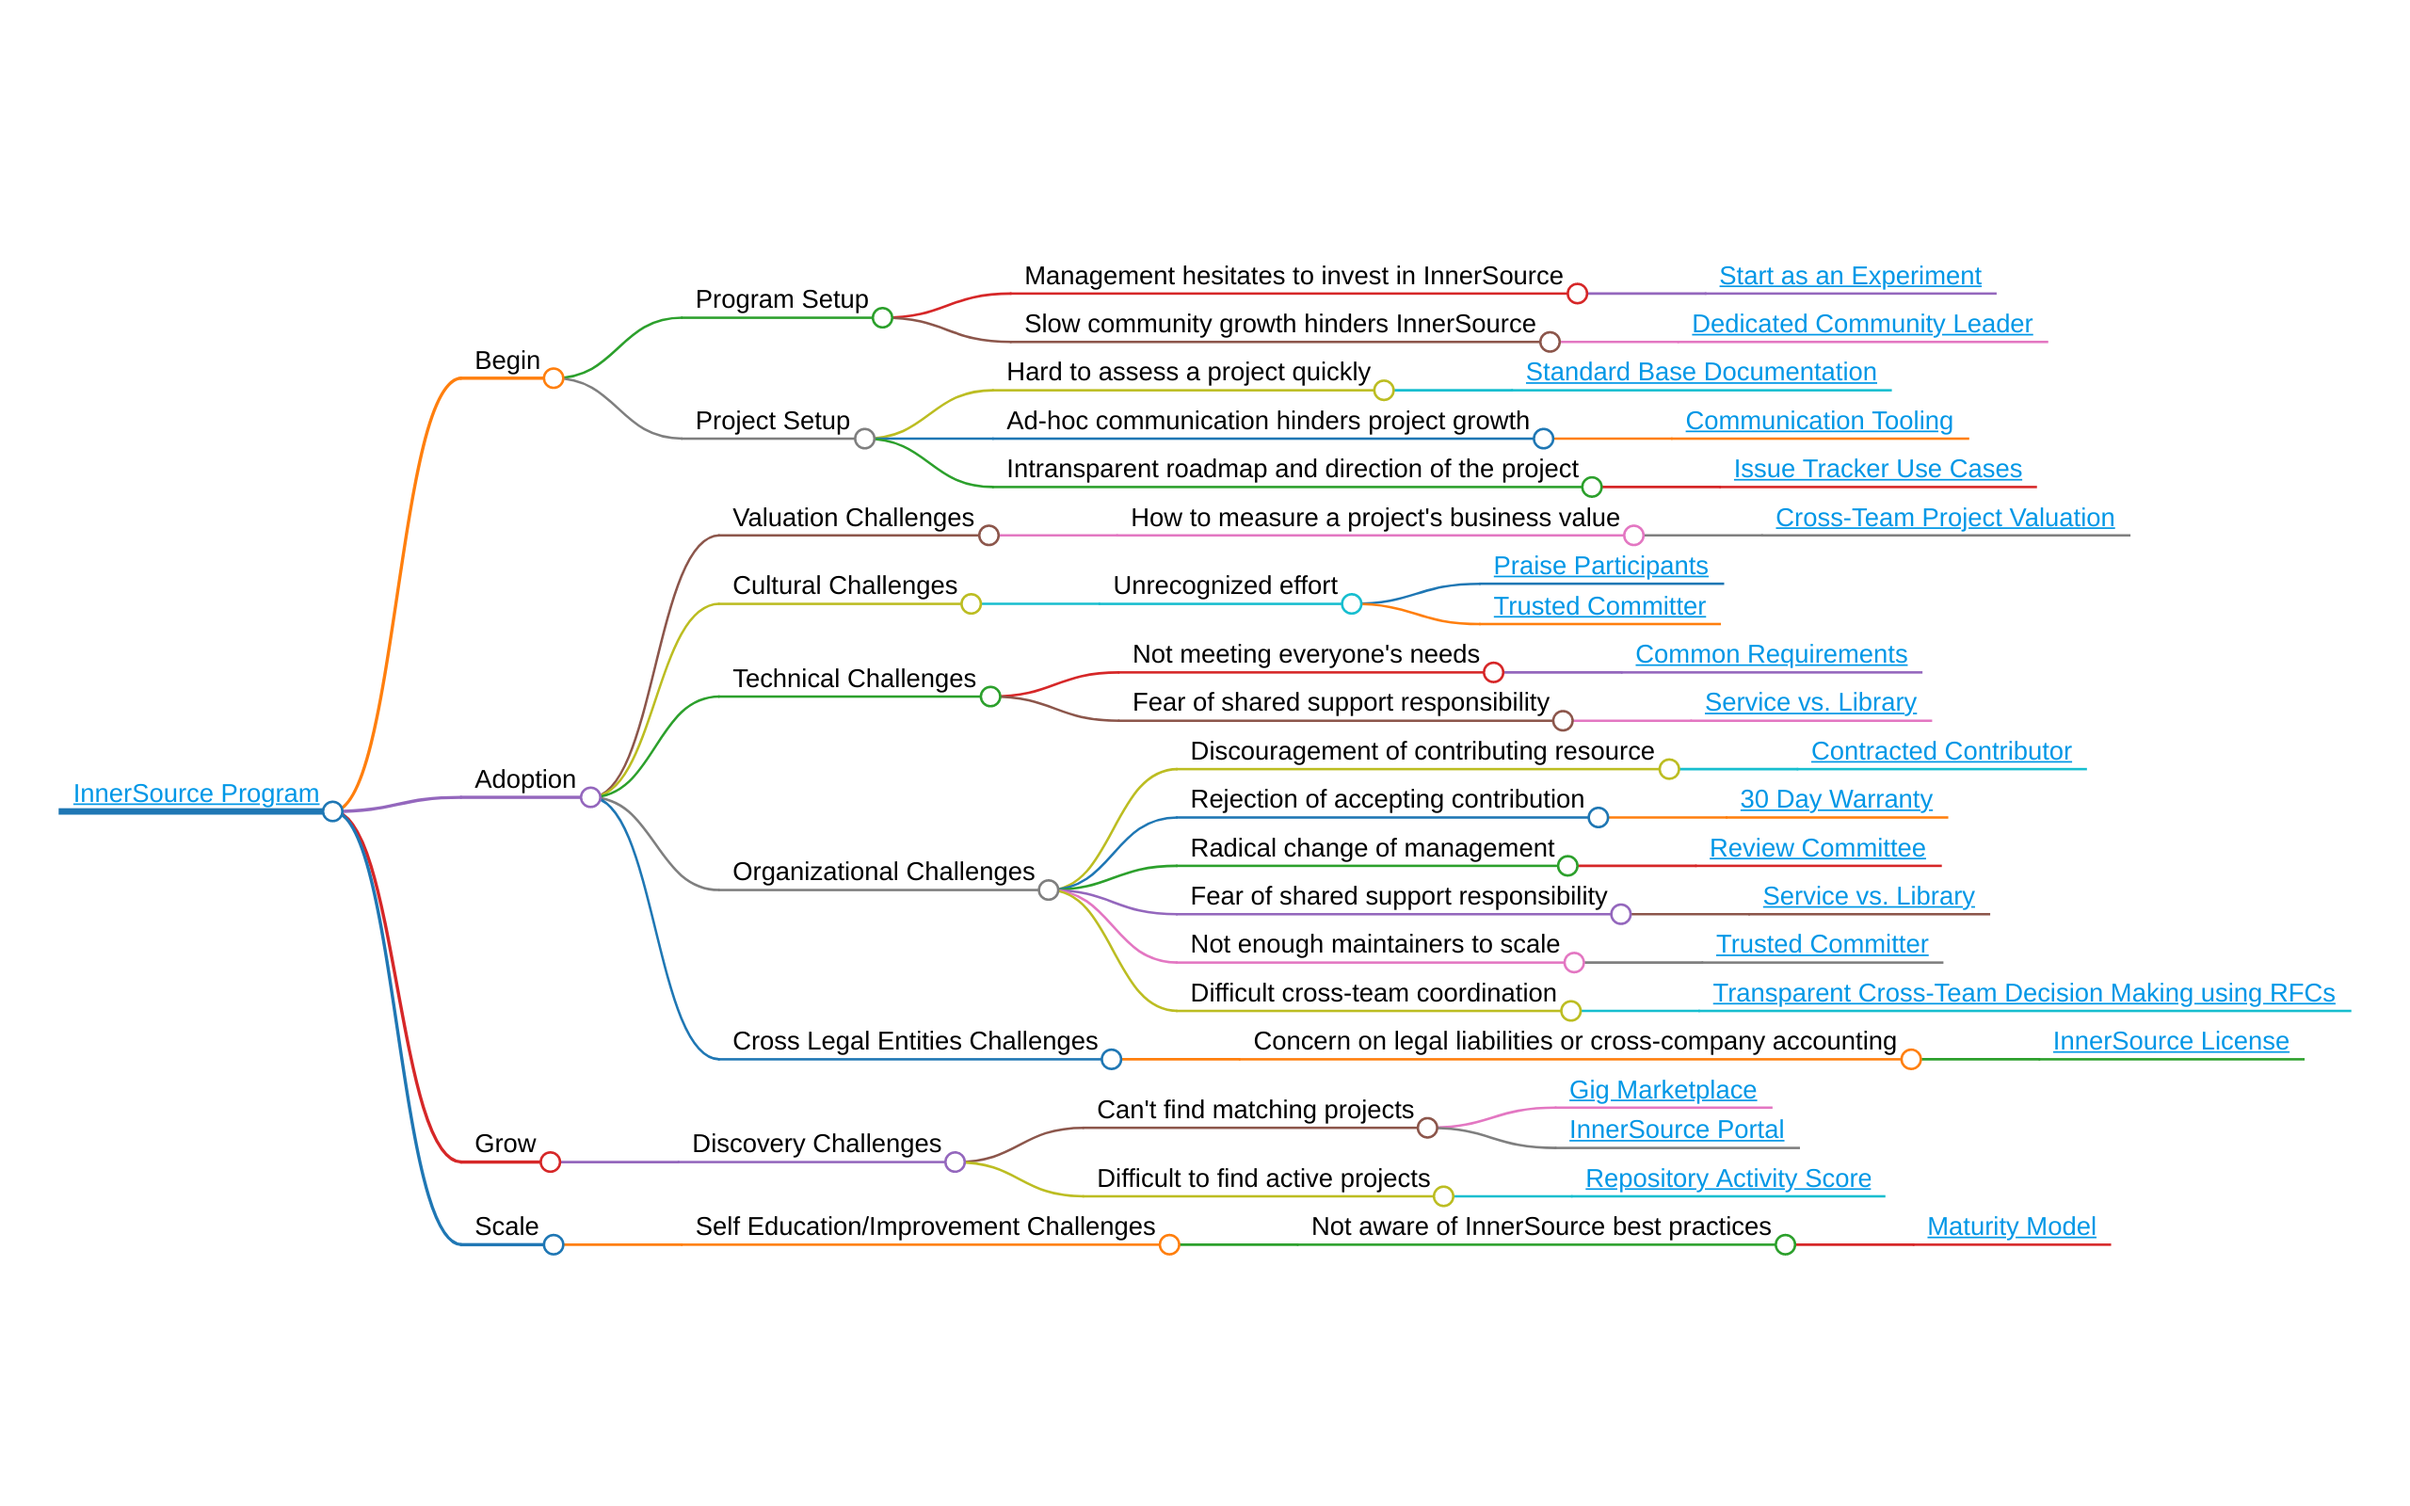
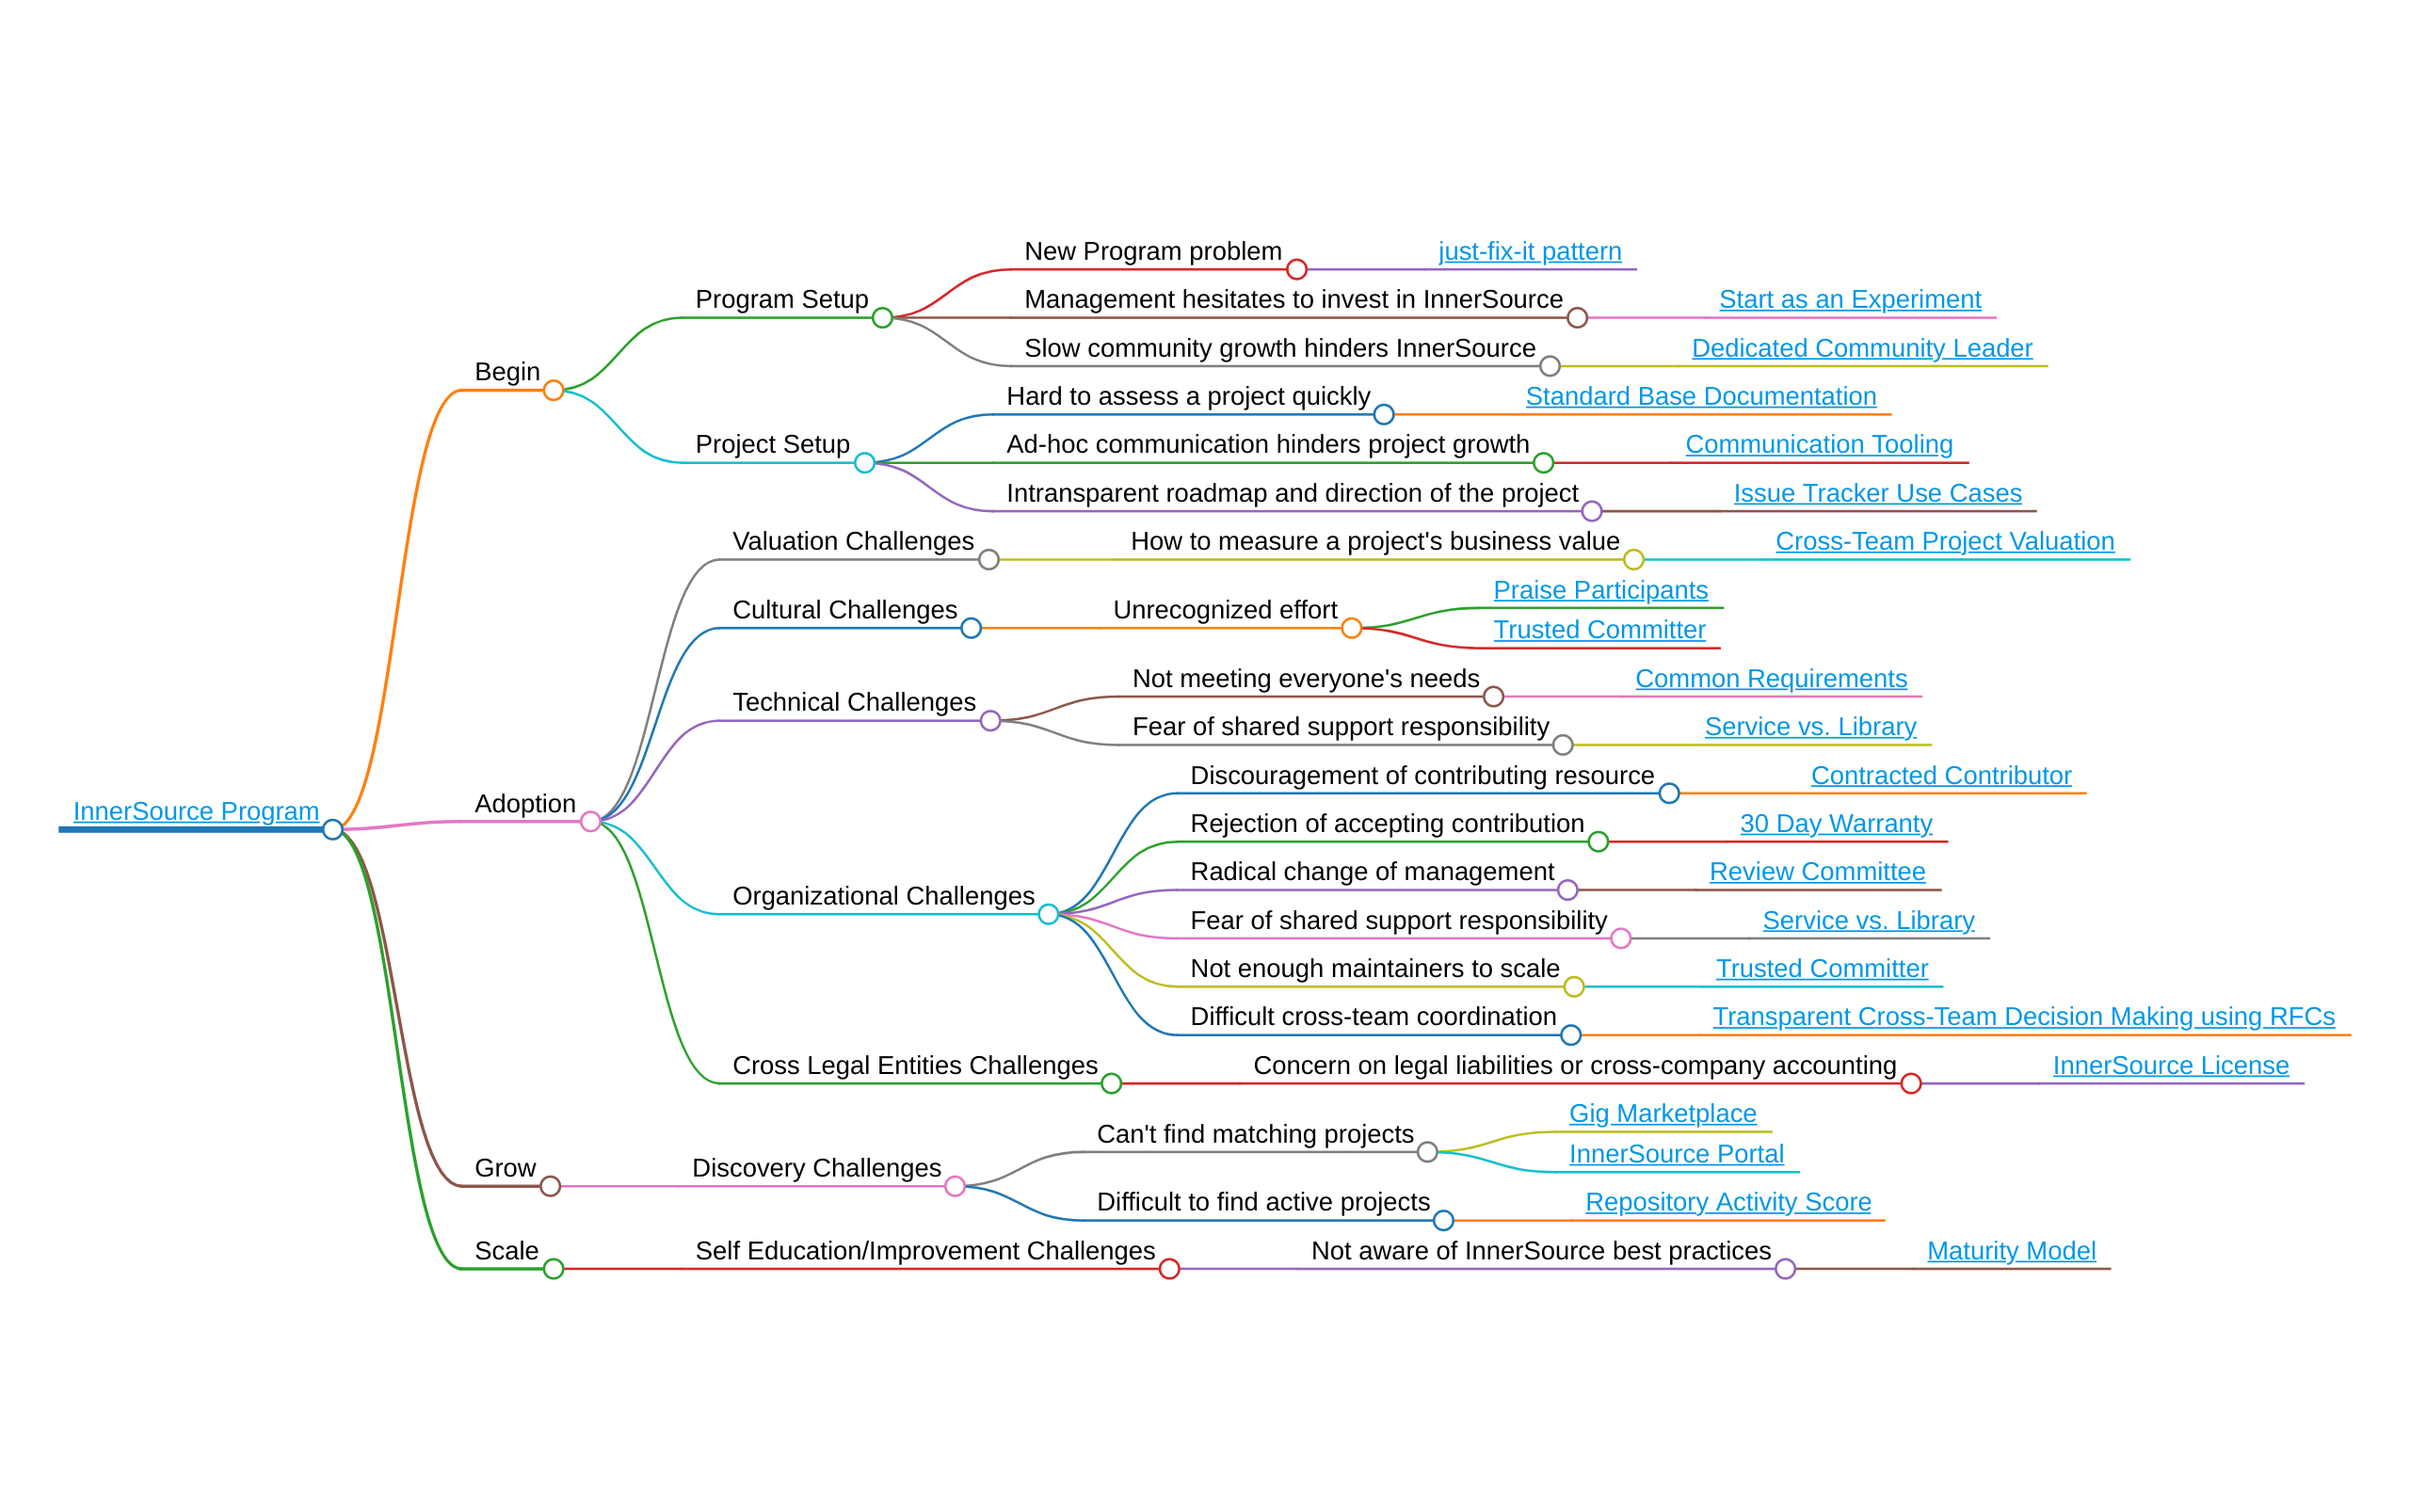
Re-creating markmap and screenshot

Changed region(s): [[0.0312, 0.1562, 0.9688, 0.8438], [0.1875, 0.2188, 0.25, 0.2812]]

diff --git a/pattern-categorization/innersource-program-mind-map.html b/pattern-categorization/innersource-program-mind-map.html
@@ -25,6 +25,6 @@
           Markmap
         } = getMarkmap();
         window.mm = Markmap.create('svg#mindmap', getOptions == null ? void 0 : getOptions(), data);
-      })(() => window.markmap,null,{"t":"heading","d":1,"p":{"lines":[0,1]},"v":"<a href=\"https://patterns.innersourcecommons.org/toc\">InnerSource Program</a>","c":[{"t":"heading","d":2,"p":{"lines":[2,3]},"v":"Begin","c":[{"t":"heading","d":3,"p":{"lines":[4,5]},"v":"Program Setup","c":[{"t":"heading","d":4,"p":{"lines":[6,7]},"v":"Management hesitates to invest in InnerSource","c":[{"t":"heading","d":5,"p":{"lines":[8,9]},"v":"<a href=\"https://patterns.innersourcecommons.org/p/start-as-experiment\">Start as an Experiment</a>"}]},{"t":"heading","d":4,"p":{"lines":[10,11]},"v":"Slow community growth hinders InnerSource","c":[{"t":"heading","d":5,"p":{"lines":[12,13]},"v":"<a href=\"https://patterns.innersourcecommons.org/p/dedicated-community-leader\">Dedicated Community Leader</a>"}]}]},{"t":"heading","d":3,"p":{"lines":[14,15]},"v":"Project Setup","c":[{"t":"heading","d":4,"p":{"lines":[16,17]},"v":"Hard to assess a project quickly","c":[{"t":"heading","d":5,"p":{"lines":[18,19]},"v":"<a href=\"https://patterns.innersourcecommons.org/p/base-documentation\">Standard Base Documentation</a>"}]},{"t":"heading","d":4,"p":{"lines":[20,21]},"v":"Ad-hoc communication hinders project growth","c":[{"t":"heading","d":5,"p":{"lines":[22,23]},"v":"<a href=\"https://patterns.innersourcecommons.org/p/communication-tooling\">Communication Tooling</a>"}]},{"t":"heading","d":4,"p":{"lines":[24,25]},"v":"Intransparent roadmap and direction of the project","c":[{"t":"heading","d":5,"p":{"lines":[26,27]},"v":"<a href=\"https://patterns.innersourcecommons.org/p/issue-tracker\">Issue Tracker Use Cases</a>"}]}]}]},{"t":"heading","d":2,"p":{"lines":[28,29]},"v":"Adoption","c":[{"t":"heading","d":3,"p":{"lines":[30,31]},"v":"Valuation Challenges","c":[{"t":"heading","d":4,"p":{"lines":[32,33]},"v":"How to measure a project's business value","c":[{"t":"heading","d":5,"p":{"lines":[34,35]},"v":"<a href=\"https://patterns.innersourcecommons.org/p/crossteam-project-valuation\">Cross-Team Project Valuation</a>"}]}]},{"t":"heading","d":3,"p":{"lines":[36,37]},"v":"Cultural Challenges","c":[{"t":"heading","d":4,"p":{"lines":[38,39]},"v":"Unrecognized effort","c":[{"t":"heading","d":5,"p":{"lines":[40,41]},"v":"<a href=\"https://patterns.innersourcecommons.org/p/praise-participants\">Praise Participants</a>"},{"t":"heading","d":5,"p":{"lines":[42,43]},"v":"<a href=\"https://patterns.innersourcecommons.org/p/trusted-committer\">Trusted Committer</a>"}]}]},{"t":"heading","d":3,"p":{"lines":[44,45]},"v":"Technical Challenges","c":[{"t":"heading","d":4,"p":{"lines":[46,47]},"v":"Not meeting everyone's needs","c":[{"t":"heading","d":5,"p":{"lines":[48,49]},"v":"<a href=\"https://patterns.innersourcecommons.org/p/common-requirements\">Common Requirements</a>"}]},{"t":"heading","d":4,"p":{"lines":[50,51]},"v":"Fear of shared support responsibility","c":[{"t":"heading","d":5,"p":{"lines":[52,53]},"v":"<a href=\"https://patterns.innersourcecommons.org/p/service-vs-library\">Service vs. Library</a>"}]}]},{"t":"heading","d":3,"p":{"lines":[54,55]},"v":"Organizational Challenges","c":[{"t":"heading","d":4,"p":{"lines":[56,57]},"v":"Discouragement of contributing resource","c":[{"t":"heading","d":5,"p":{"lines":[58,59]},"v":"<a href=\"https://patterns.innersourcecommons.org/p/contracted-contributor\">Contracted Contributor</a>"}]},{"t":"heading","d":4,"p":{"lines":[60,61]},"v":"Rejection of accepting contribution","c":[{"t":"heading","d":5,"p":{"lines":[62,63]},"v":"<a href=\"https://patterns.innersourcecommons.org/p/30-day-warranty\">30 Day Warranty</a>"}]},{"t":"heading","d":4,"p":{"lines":[64,65]},"v":"Radical change of management","c":[{"t":"heading","d":5,"p":{"lines":[66,67]},"v":"<a href=\"https://patterns.innersourcecommons.org/p/review-committee\">Review Committee</a>"}]},{"t":"heading","d":4,"p":{"lines":[68,69]},"v":"Fear of shared support responsibility","c":[{"t":"heading","d":5,"p":{"lines":[70,71]},"v":"<a href=\"https://patterns.innersourcecommons.org/p/service-vs-library\">Service vs. Library</a>"}]},{"t":"heading","d":4,"p":{"lines":[72,73]},"v":"Not enough maintainers to scale","c":[{"t":"heading","d":5,"p":{"lines":[74,75]},"v":"<a href=\"https://patterns.innersourcecommons.org/p/trusted-committer\">Trusted Committer</a>"}]},{"t":"heading","d":4,"p":{"lines":[76,77]},"v":"Difficult cross-team coordination","c":[{"t":"heading","d":5,"p":{"lines":[78,79]},"v":"<a href=\"https://patterns.innersourcecommons.org/p/transparent-cross-team-decision-making-using-rfcs\">Transparent Cross-Team Decision Making using RFCs</a>"}]}]},{"t":"heading","d":3,"p":{"lines":[80,81]},"v":"Cross Legal Entities Challenges","c":[{"t":"heading","d":4,"p":{"lines":[82,83]},"v":"Concern on legal liabilities or cross-company accounting","c":[{"t":"heading","d":5,"p":{"lines":[84,85]},"v":"<a href=\"https://patterns.innersourcecommons.org/p/innersource-license\">InnerSource License</a>"}]}]}]},{"t":"heading","d":2,"p":{"lines":[86,87]},"v":"Grow","c":[{"t":"heading","d":3,"p":{"lines":[88,89]},"v":"Discovery Challenges","c":[{"t":"heading","d":4,"p":{"lines":[90,91]},"v":"Can't find matching projects","c":[{"t":"heading","d":5,"p":{"lines":[92,93]},"v":"<a href=\"https://patterns.innersourcecommons.org/p/gig-marketplace\">Gig Marketplace</a>"},{"t":"heading","d":5,"p":{"lines":[94,95]},"v":"<a href=\"https://patterns.innersourcecommons.org/p/innersource-portal\">InnerSource Portal</a>"}]},{"t":"heading","d":4,"p":{"lines":[96,97]},"v":"Difficult to find active projects","c":[{"t":"heading","d":5,"p":{"lines":[98,99]},"v":"<a href=\"https://patterns.innersourcecommons.org/p/repository-activity-score\">Repository Activity Score</a>"}]}]}]},{"t":"heading","d":2,"p":{"lines":[100,101]},"v":"Scale","c":[{"t":"heading","d":3,"p":{"lines":[102,103]},"v":"Self Education/Improvement Challenges","c":[{"t":"heading","d":4,"p":{"lines":[104,105]},"v":"Not aware of InnerSource best practices","c":[{"t":"heading","d":5,"p":{"lines":[106,107]},"v":"<a href=\"https://patterns.innersourcecommons.org/p/maturity-model\">Maturity Model</a>"}]}]}]}]})</script>
+      })(() => window.markmap,null,{"t":"heading","d":1,"p":{"lines":[0,1]},"v":"<a href=\"https://patterns.innersourcecommons.org/toc\">InnerSource Program</a>","c":[{"t":"heading","d":2,"p":{"lines":[2,3]},"v":"Begin","c":[{"t":"heading","d":3,"p":{"lines":[4,5]},"v":"Program Setup","c":[{"t":"heading","d":4,"p":{"lines":[6,7]},"v":"New Program problem","c":[{"t":"heading","d":5,"p":{"lines":[8,9]},"v":"<a href=\"https://patterns.innersourcecommons.org/p/start-as-experiment\">just-fix-it pattern</a>"}]},{"t":"heading","d":4,"p":{"lines":[10,11]},"v":"Management hesitates to invest in InnerSource","c":[{"t":"heading","d":5,"p":{"lines":[12,13]},"v":"<a href=\"https://patterns.innersourcecommons.org/p/start-as-experiment\">Start as an Experiment</a>"}]},{"t":"heading","d":4,"p":{"lines":[14,15]},"v":"Slow community growth hinders InnerSource","c":[{"t":"heading","d":5,"p":{"lines":[16,17]},"v":"<a href=\"https://patterns.innersourcecommons.org/p/dedicated-community-leader\">Dedicated Community Leader</a>"}]}]},{"t":"heading","d":3,"p":{"lines":[18,19]},"v":"Project Setup","c":[{"t":"heading","d":4,"p":{"lines":[20,21]},"v":"Hard to assess a project quickly","c":[{"t":"heading","d":5,"p":{"lines":[22,23]},"v":"<a href=\"https://patterns.innersourcecommons.org/p/base-documentation\">Standard Base Documentation</a>"}]},{"t":"heading","d":4,"p":{"lines":[24,25]},"v":"Ad-hoc communication hinders project growth","c":[{"t":"heading","d":5,"p":{"lines":[26,27]},"v":"<a href=\"https://patterns.innersourcecommons.org/p/communication-tooling\">Communication Tooling</a>"}]},{"t":"heading","d":4,"p":{"lines":[28,29]},"v":"Intransparent roadmap and direction of the project","c":[{"t":"heading","d":5,"p":{"lines":[30,31]},"v":"<a href=\"https://patterns.innersourcecommons.org/p/issue-tracker\">Issue Tracker Use Cases</a>"}]}]}]},{"t":"heading","d":2,"p":{"lines":[32,33]},"v":"Adoption","c":[{"t":"heading","d":3,"p":{"lines":[34,35]},"v":"Valuation Challenges","c":[{"t":"heading","d":4,"p":{"lines":[36,37]},"v":"How to measure a project's business value","c":[{"t":"heading","d":5,"p":{"lines":[38,39]},"v":"<a href=\"https://patterns.innersourcecommons.org/p/crossteam-project-valuation\">Cross-Team Project Valuation</a>"}]}]},{"t":"heading","d":3,"p":{"lines":[40,41]},"v":"Cultural Challenges","c":[{"t":"heading","d":4,"p":{"lines":[42,43]},"v":"Unrecognized effort","c":[{"t":"heading","d":5,"p":{"lines":[44,45]},"v":"<a href=\"https://patterns.innersourcecommons.org/p/praise-participants\">Praise Participants</a>"},{"t":"heading","d":5,"p":{"lines":[46,47]},"v":"<a href=\"https://patterns.innersourcecommons.org/p/trusted-committer\">Trusted Committer</a>"}]}]},{"t":"heading","d":3,"p":{"lines":[48,49]},"v":"Technical Challenges","c":[{"t":"heading","d":4,"p":{"lines":[50,51]},"v":"Not meeting everyone's needs","c":[{"t":"heading","d":5,"p":{"lines":[52,53]},"v":"<a href=\"https://patterns.innersourcecommons.org/p/common-requirements\">Common Requirements</a>"}]},{"t":"heading","d":4,"p":{"lines":[54,55]},"v":"Fear of shared support responsibility","c":[{"t":"heading","d":5,"p":{"lines":[56,57]},"v":"<a href=\"https://patterns.innersourcecommons.org/p/service-vs-library\">Service vs. Library</a>"}]}]},{"t":"heading","d":3,"p":{"lines":[58,59]},"v":"Organizational Challenges","c":[{"t":"heading","d":4,"p":{"lines":[60,61]},"v":"Discouragement of contributing resource","c":[{"t":"heading","d":5,"p":{"lines":[62,63]},"v":"<a href=\"https://patterns.innersourcecommons.org/p/contracted-contributor\">Contracted Contributor</a>"}]},{"t":"heading","d":4,"p":{"lines":[64,65]},"v":"Rejection of accepting contribution","c":[{"t":"heading","d":5,"p":{"lines":[66,67]},"v":"<a href=\"https://patterns.innersourcecommons.org/p/30-day-warranty\">30 Day Warranty</a>"}]},{"t":"heading","d":4,"p":{"lines":[68,69]},"v":"Radical change of management","c":[{"t":"heading","d":5,"p":{"lines":[70,71]},"v":"<a href=\"https://patterns.innersourcecommons.org/p/review-committee\">Review Committee</a>"}]},{"t":"heading","d":4,"p":{"lines":[72,73]},"v":"Fear of shared support responsibility","c":[{"t":"heading","d":5,"p":{"lines":[74,75]},"v":"<a href=\"https://patterns.innersourcecommons.org/p/service-vs-library\">Service vs. Library</a>"}]},{"t":"heading","d":4,"p":{"lines":[76,77]},"v":"Not enough maintainers to scale","c":[{"t":"heading","d":5,"p":{"lines":[78,79]},"v":"<a href=\"https://patterns.innersourcecommons.org/p/trusted-committer\">Trusted Committer</a>"}]},{"t":"heading","d":4,"p":{"lines":[80,81]},"v":"Difficult cross-team coordination","c":[{"t":"heading","d":5,"p":{"lines":[82,83]},"v":"<a href=\"https://patterns.innersourcecommons.org/p/transparent-cross-team-decision-making-using-rfcs\">Transparent Cross-Team Decision Making using RFCs</a>"}]}]},{"t":"heading","d":3,"p":{"lines":[84,85]},"v":"Cross Legal Entities Challenges","c":[{"t":"heading","d":4,"p":{"lines":[86,87]},"v":"Concern on legal liabilities or cross-company accounting","c":[{"t":"heading","d":5,"p":{"lines":[88,89]},"v":"<a href=\"https://patterns.innersourcecommons.org/p/innersource-license\">InnerSource License</a>"}]}]}]},{"t":"heading","d":2,"p":{"lines":[90,91]},"v":"Grow","c":[{"t":"heading","d":3,"p":{"lines":[92,93]},"v":"Discovery Challenges","c":[{"t":"heading","d":4,"p":{"lines":[94,95]},"v":"Can't find matching projects","c":[{"t":"heading","d":5,"p":{"lines":[96,97]},"v":"<a href=\"https://patterns.innersourcecommons.org/p/gig-marketplace\">Gig Marketplace</a>"},{"t":"heading","d":5,"p":{"lines":[98,99]},"v":"<a href=\"https://patterns.innersourcecommons.org/p/innersource-portal\">InnerSource Portal</a>"}]},{"t":"heading","d":4,"p":{"lines":[100,101]},"v":"Difficult to find active projects","c":[{"t":"heading","d":5,"p":{"lines":[102,103]},"v":"<a href=\"https://patterns.innersourcecommons.org/p/repository-activity-score\">Repository Activity Score</a>"}]}]}]},{"t":"heading","d":2,"p":{"lines":[104,105]},"v":"Scale","c":[{"t":"heading","d":3,"p":{"lines":[106,107]},"v":"Self Education/Improvement Challenges","c":[{"t":"heading","d":4,"p":{"lines":[108,109]},"v":"Not aware of InnerSource best practices","c":[{"t":"heading","d":5,"p":{"lines":[110,111]},"v":"<a href=\"https://patterns.innersourcecommons.org/p/maturity-model\">Maturity Model</a>"}]}]}]}]})</script>
 </body>
 </html>
